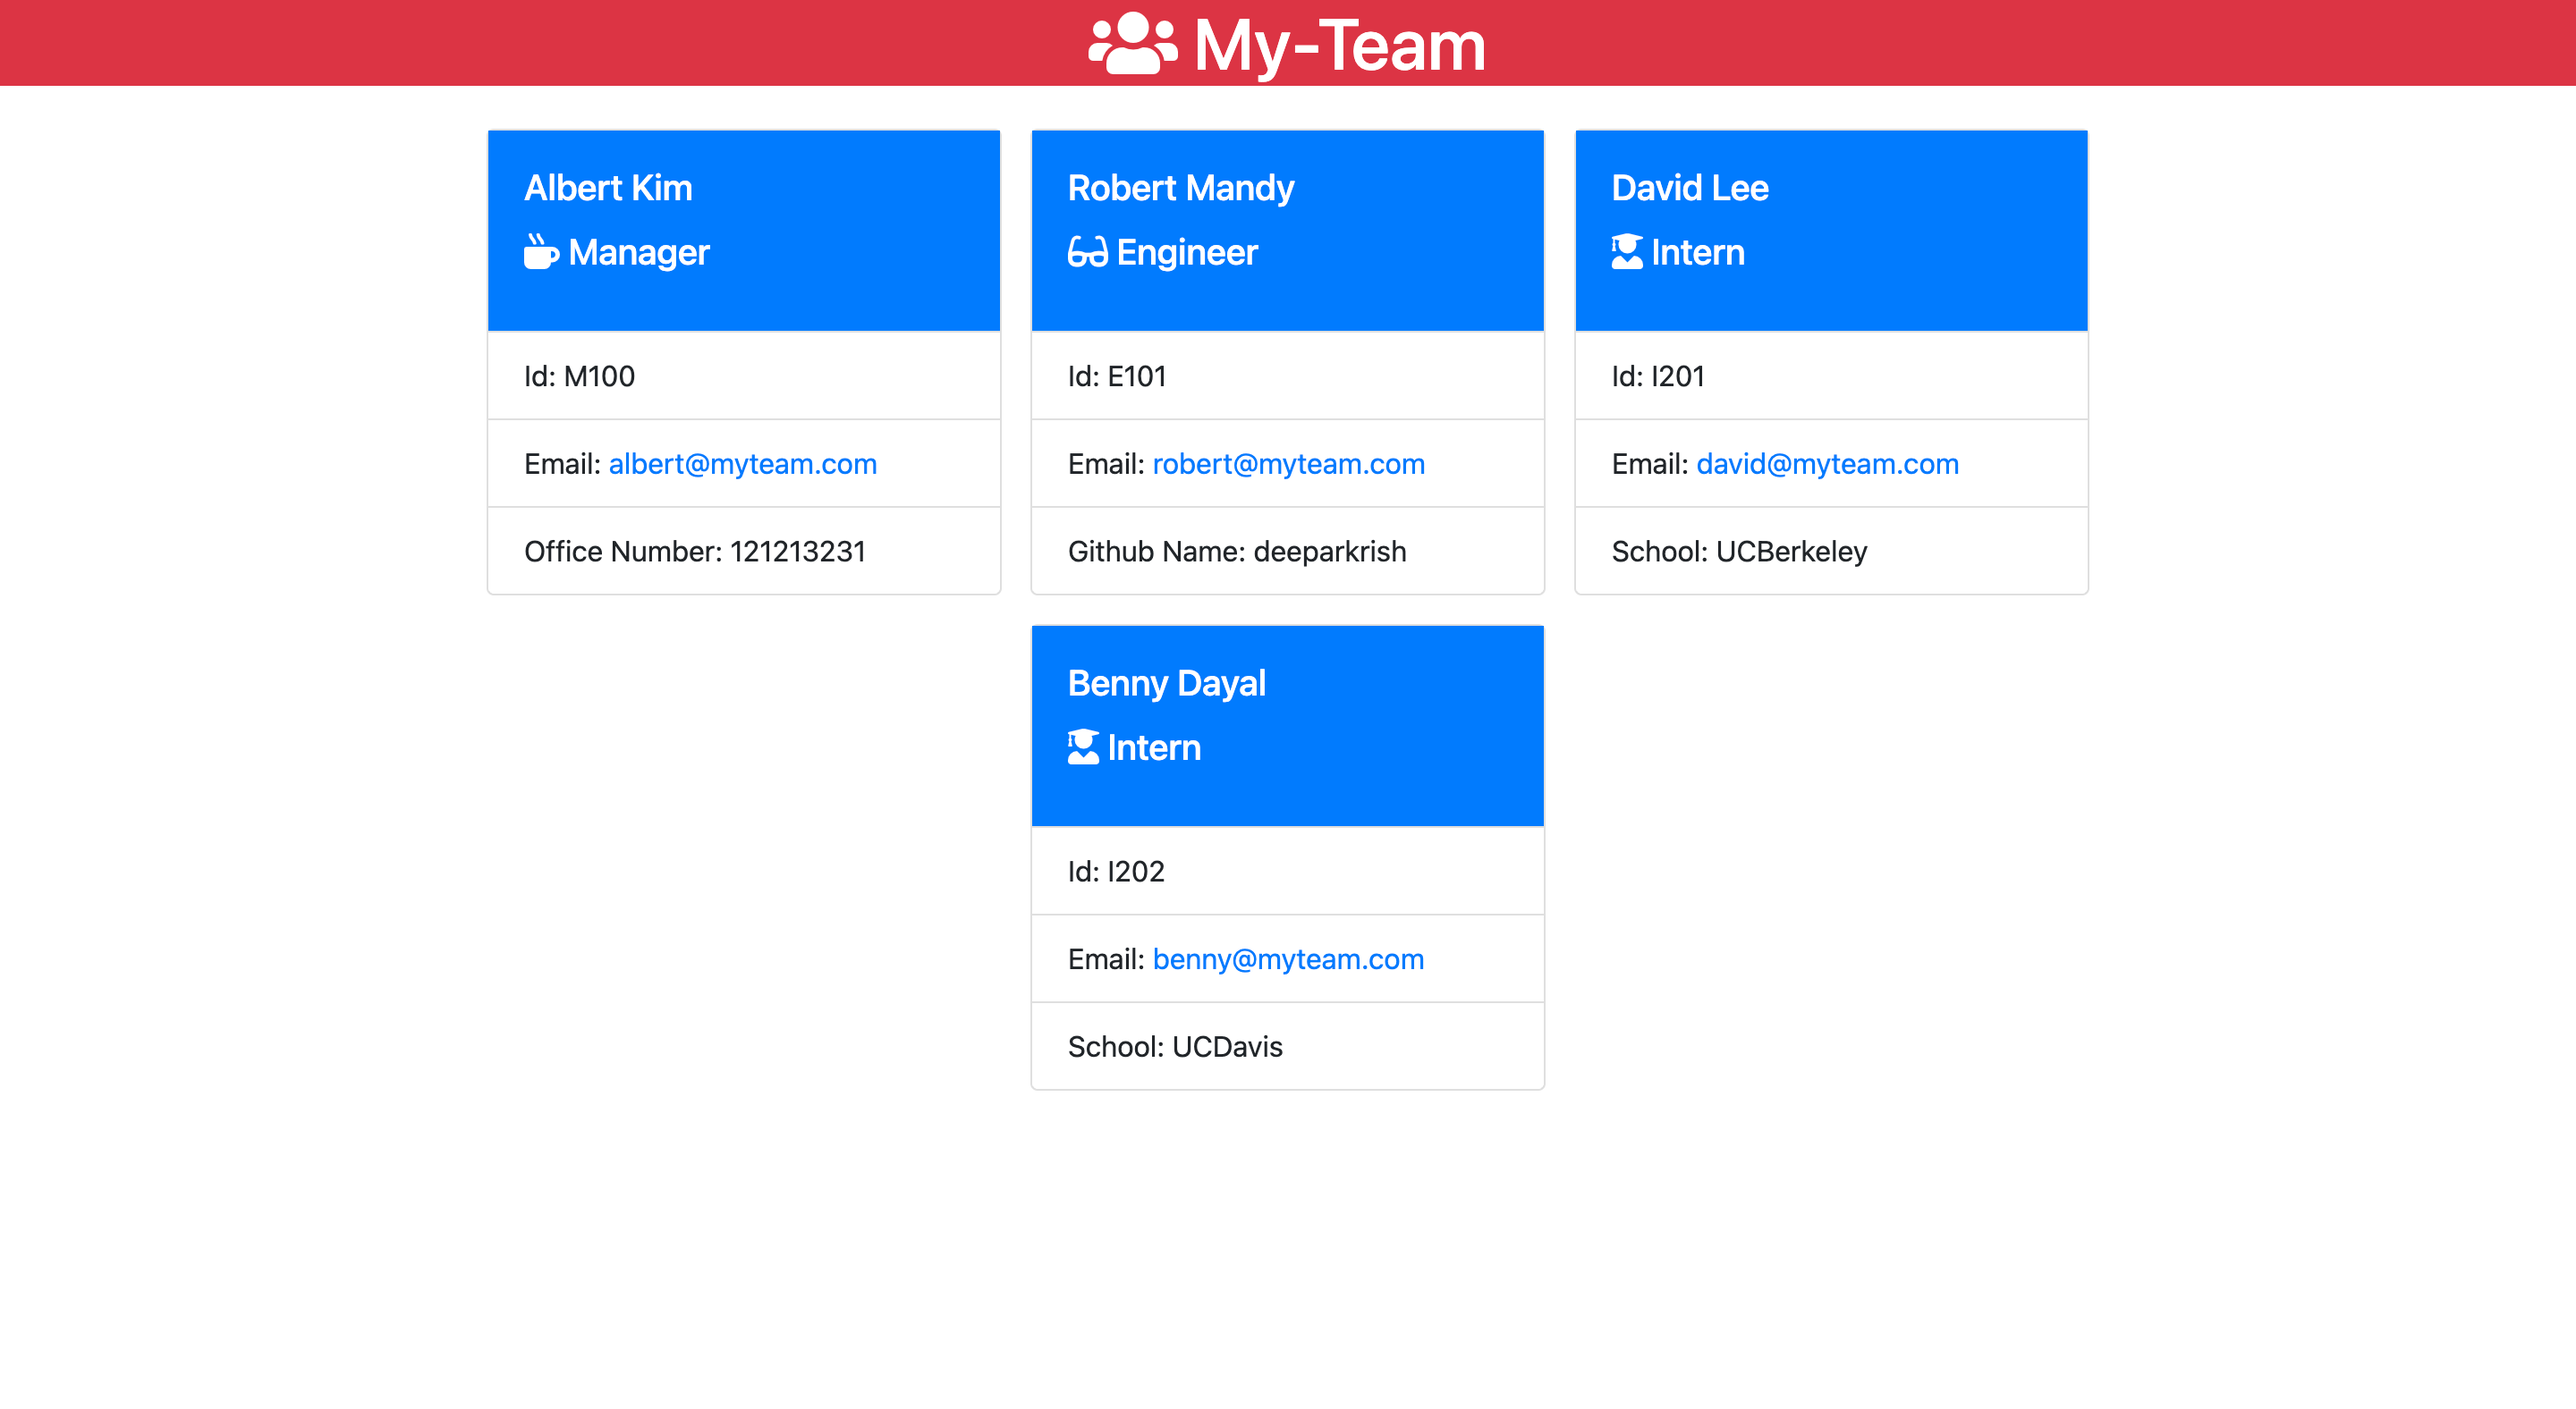
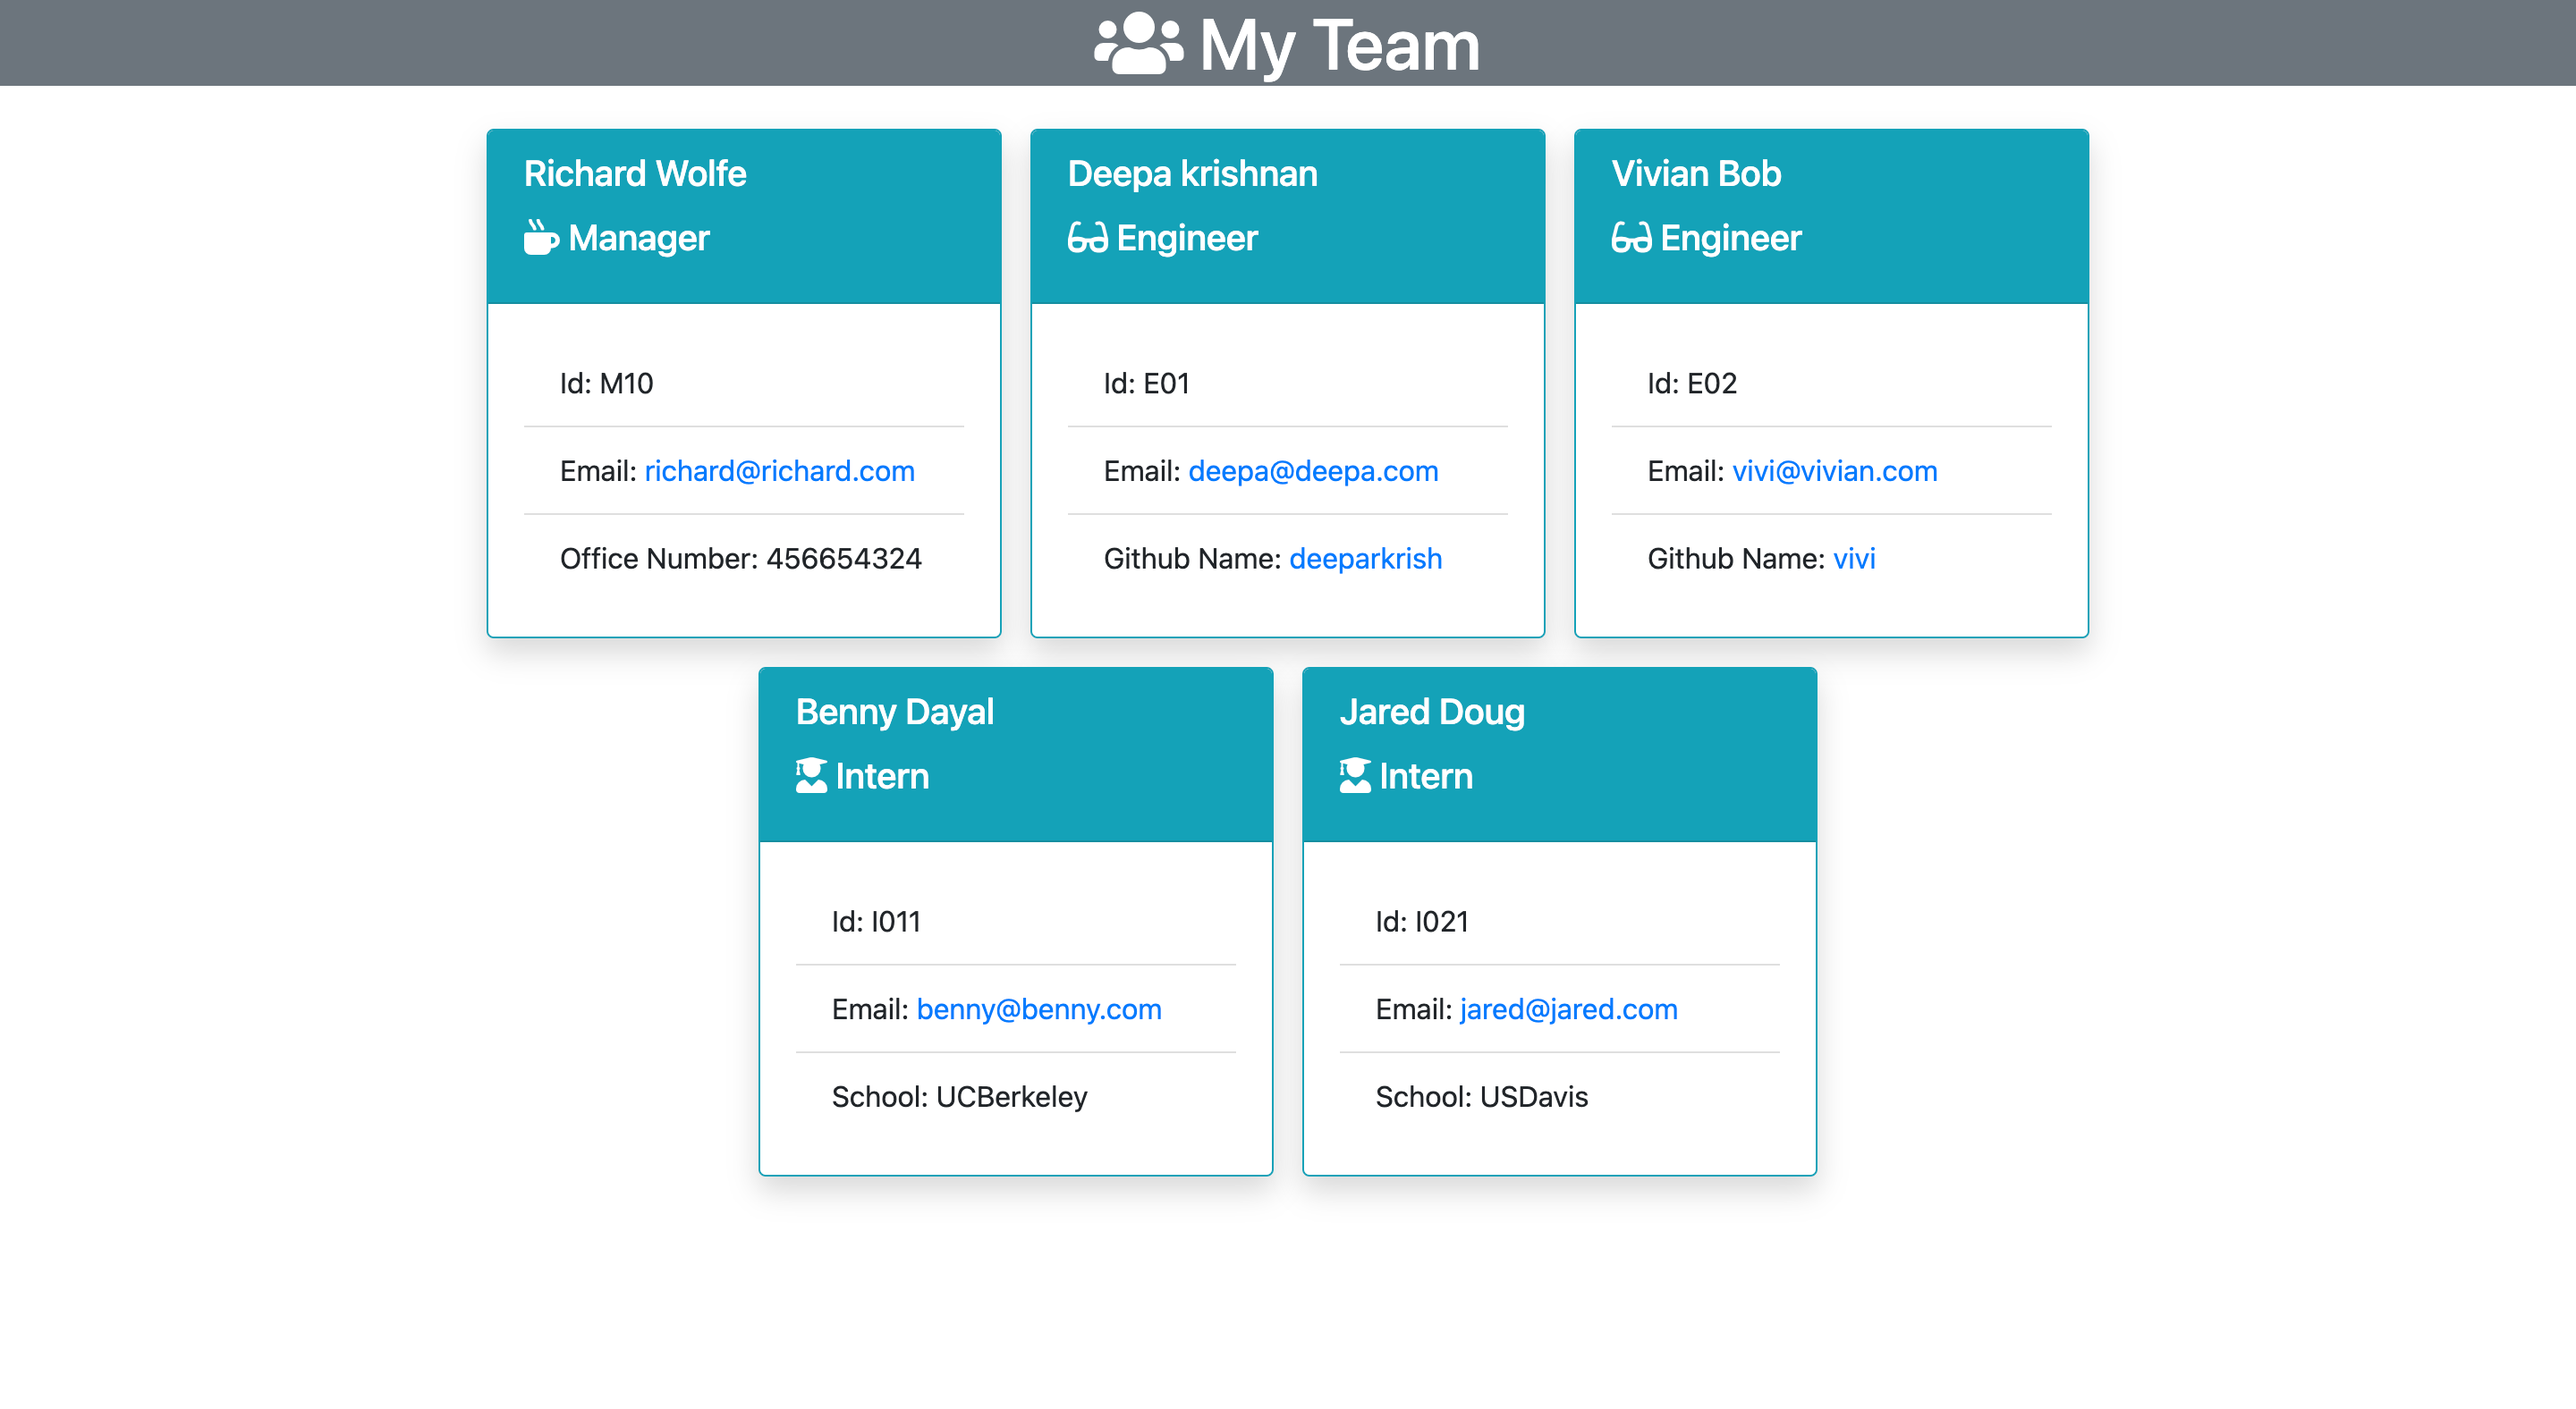
adding demo gif

diff --git a/dist/index.html b/dist/index.html
@@ -11,24 +11,75 @@
       <link href="https://fonts.googleapis.com/css?family=Public+Sans:300i,300,500&display=swap" rel="stylesheet">
       <!-- Bootstrap-->
       <link rel="stylesheet" href="https://stackpath.bootstrapcdn.com/bootstrap/4.3.1/css/bootstrap.min.css" integrity="sha384-ggOyR0iXCbMQv3Xipma34MD+dH/1fQ784/j6cY/iJTQUOhcWr7x9JvoRxT2MZw1T" crossorigin="anonymous">
-      <link rel="stylesheet" href="./src/style.css">  
       </head>  
     <body>
     <header class="container-fluid bg-secondary mb-3 text-white">
-        <h1 class="text-center"><span style ="font-size:2x; color:White"><i class="fas fa-users"></i></span>  My-Team</h1>    
+        <h1 class="text-center"><span style ="font-size:2x; color:White"><i class="fas fa-users"></i></span>  My Team</h1>    
     </header> 
     <main class ="container">
     <div class =" row mb-3 justify-content-center" id ="my-team">
     <div class="card m-2 shadow border-info " style="width: 18rem;">
       <div class="card-header bg-info text-white">
-        <h5 class="card-title">a</h5>
+        <h5 class="card-title">Richard Wolfe</h5>
         <h5 class="card-title"><span style ="font-size:20px; color:White"><i class="fas fa-mug-hot"></i></span> Manager</h5>
       </div>
       <div class ="card-body">
         <ul class="list-group list-group-flush">
-          <li class="list-group-item">Id: a1</li>
-          <li class="list-group-item">Email: <a href="mailto:wswdf@w.com" class="card-link">wswdf@w.com</a></li>
-          <li class="list-group-item">Office Number: 123132123</li>
+          <li class="list-group-item">Id: M10</li>
+          <li class="list-group-item">Email: <a href="mailto:richard@richard.com" class="card-link">richard@richard.com</a></li>
+          <li class="list-group-item">Office Number: 456654324</li>
+        </ul>
+      </div>
+    </div> 
+    <div class="card m-2 shadow border-info " style="width: 18rem;">
+      <div class="card-header bg-info text-white">
+        <h5 class="card-title">Deepa krishnan</h5>
+        <h5 class="card-title"><span style ="font-size:20px; color:White"><i class="fas fa-glasses"></i></span> Engineer</h5>
+      </div>
+      <div class ="card-body">
+        <ul class="list-group list-group-flush">
+          <li class="list-group-item">Id: E01</li>
+          <li class="list-group-item">Email: <a href="mailto:deepa@deepa.com" class="card-link">deepa@deepa.com</a></li>
+          <li class="list-group-item">Github Name: <a href = 'https://github.com/deeparkrish'>deeparkrish</a></li>
+        </ul>
+      </div>
+    </div> 
+    <div class="card m-2 shadow border-info " style="width: 18rem;">
+      <div class="card-header bg-info text-white">
+        <h5 class="card-title">Vivian Bob</h5>
+        <h5 class="card-title"><span style ="font-size:20px; color:White"><i class="fas fa-glasses"></i></span> Engineer</h5>
+      </div>
+      <div class ="card-body">
+        <ul class="list-group list-group-flush">
+          <li class="list-group-item">Id: E02</li>
+          <li class="list-group-item">Email: <a href="mailto:vivi@vivian.com" class="card-link">vivi@vivian.com</a></li>
+          <li class="list-group-item">Github Name: <a href = 'https://github.com/vivi'>vivi</a></li>
+        </ul>
+      </div>
+    </div> 
+    <div class="card m-2 shadow border-info " style="width: 18rem;">
+      <div class="card-header bg-info text-white">
+        <h5 class="card-title">Benny Dayal</h5>
+        <h5 class="card-title"><span style ="font-size:20px; color:White"><i class="fas fa-user-graduate"></i></span> Intern</h5>
+      </div>
+      <div class ="card-body">
+        <ul class="list-group list-group-flush">
+          <li class="list-group-item">Id: I011</li>
+          <li class="list-group-item">Email: <a href="mailto:benny@benny.com" class="card-link">benny@benny.com</a></li>
+          <li class="list-group-item">School: UCBerkeley</li>
+        </ul>
+      </div>
+    </div> 
+    <div class="card m-2 shadow border-info " style="width: 18rem;">
+      <div class="card-header bg-info text-white">
+        <h5 class="card-title">Jared Doug</h5>
+        <h5 class="card-title"><span style ="font-size:20px; color:White"><i class="fas fa-user-graduate"></i></span> Intern</h5>
+      </div>
+      <div class ="card-body">
+        <ul class="list-group list-group-flush">
+          <li class="list-group-item">Id: I021</li>
+          <li class="list-group-item">Email: <a href="mailto:jared@jared.com" class="card-link">jared@jared.com</a></li>
+          <li class="list-group-item">School: USDavis</li>
         </ul>
       </div>
     </div> </div>

diff --git a/lib/generatehtml.js b/lib/generatehtml.js
@@ -93,7 +93,7 @@ return `
       </head>  
     <body>
     <header class="container-fluid bg-secondary mb-3 text-white">
-        <h1 class="text-center"><span style ="font-size:2x; color:White"><i class="fas fa-users"></i></span>  My-Team</h1>    
+        <h1 class="text-center"><span style ="font-size:2x; color:White"><i class="fas fa-users"></i></span>  My Team</h1>    
     </header> 
     <main class ="container">
     <div class =" row mb-3 justify-content-center" id ="my-team">`;  
